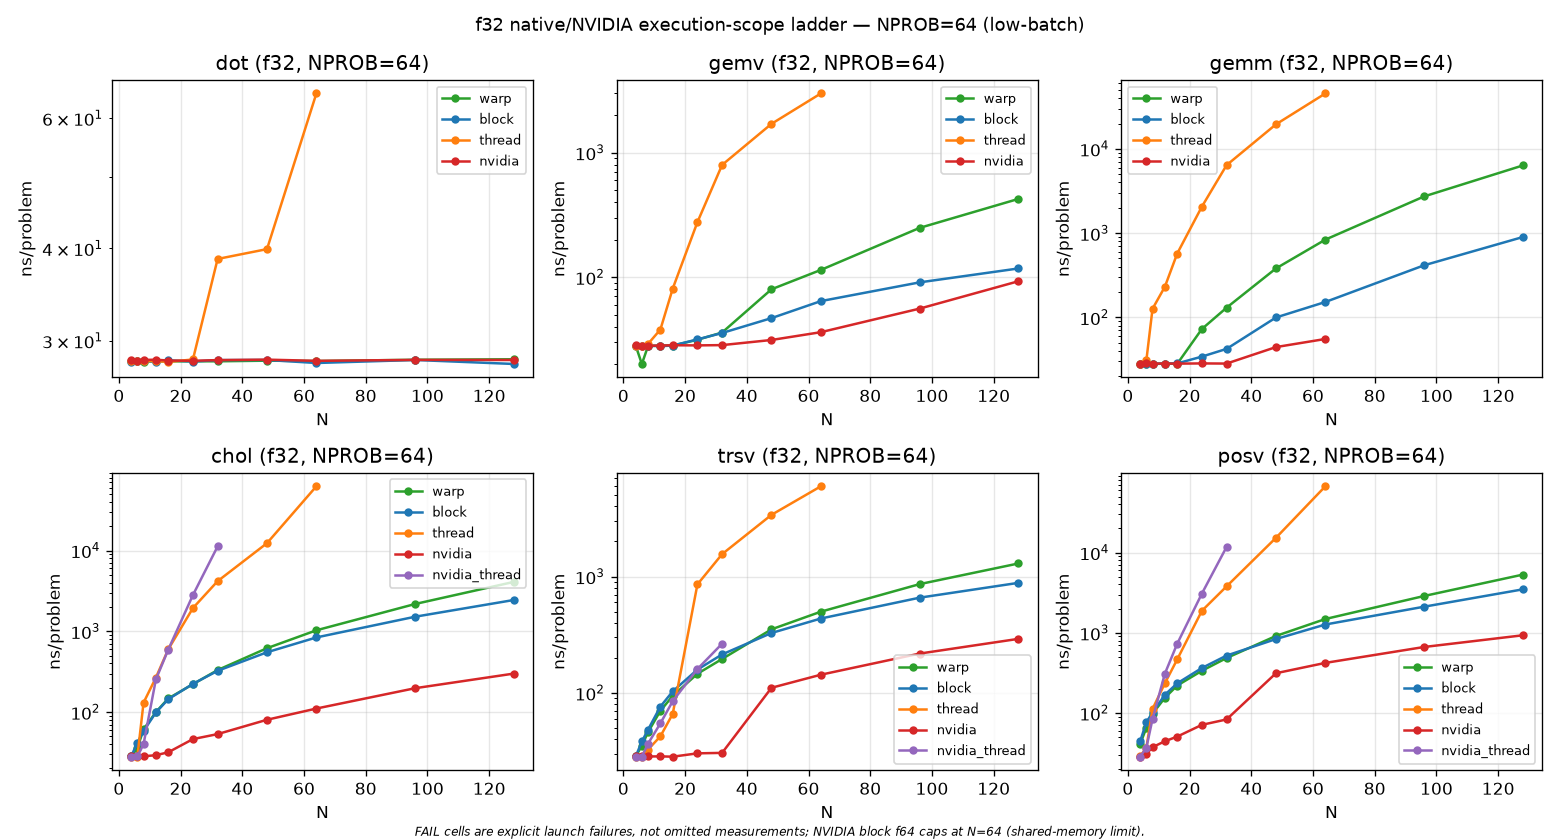
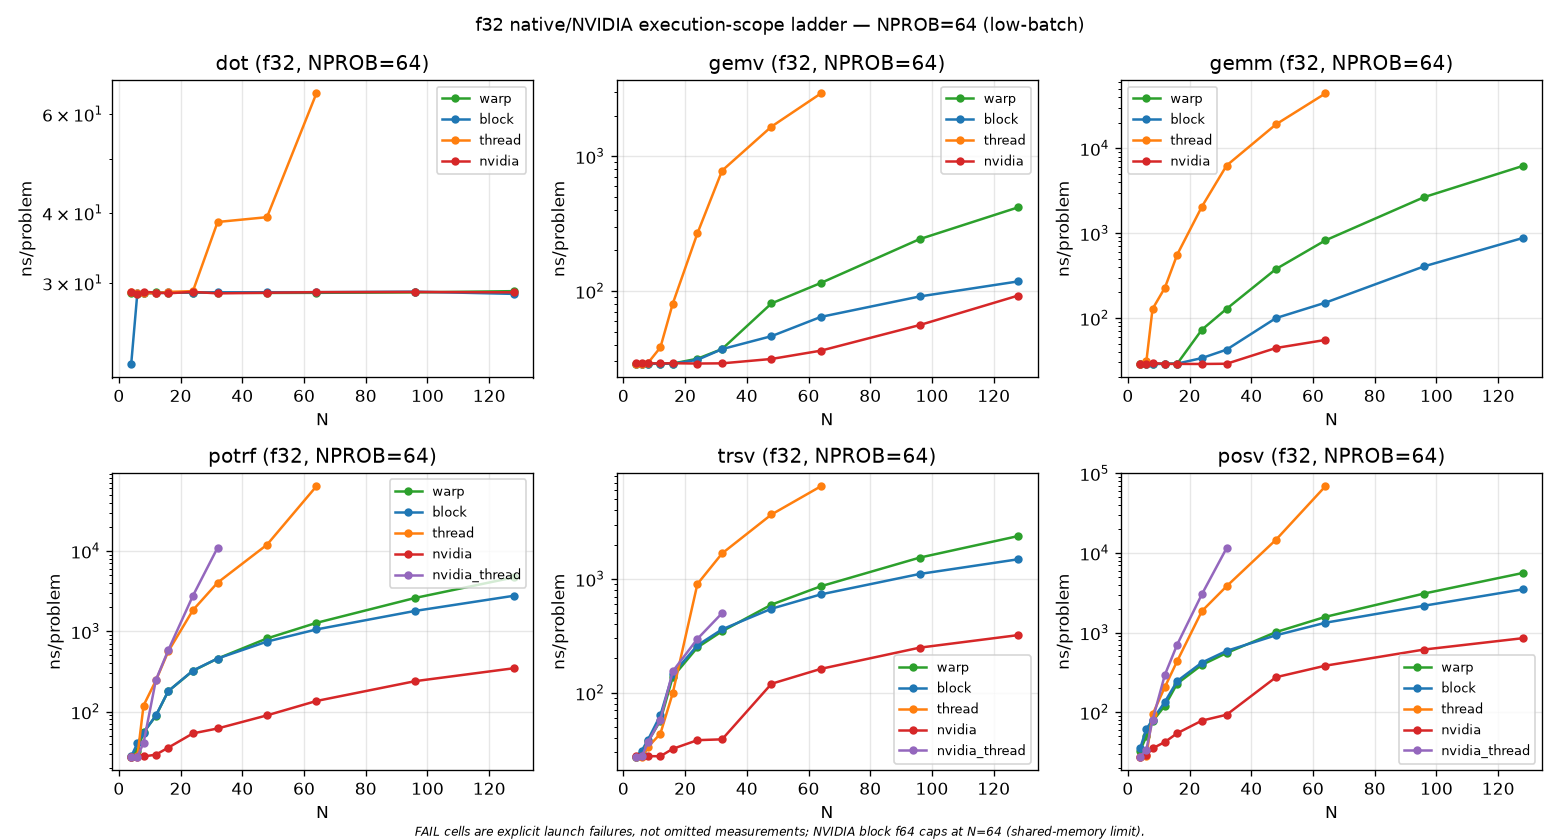
docs: refresh to 2026-09-02 campaign — three measured arches, edge-first landing, Orin ladder figures, current nvidia-thread cells

diff --git a/docs/source/user_guide/tutorials/sweep_results.rst b/docs/source/user_guide/tutorials/sweep_results.rst
@@ -15,11 +15,13 @@ exactly the measurement behind ``glass-defaults.cuh``'s ``recommend<>()``
    source-digest, and signed-receipt protocol and are marked accordingly. Use
    the source capture named beside a claim, and rerun on the target machine.
 
-The figures and table below come from the 2026-08-30 RTX 5090 / sm_120
-five-backend sweep, shown across three batch regimes — **NPROB=64** (low batch,
+The figures and table below come from the 2026-09-02 RTX 5090 / sm_120
+five-backend selection capture — the same paired fresh-input A/B campaign
+that generated the shipped ``ideal_sm120`` / ``ideal_sm87`` / ``ideal_sm72``
+tables (an independent same-protocol second capture confirmed the
+selections) — shown across three batch regimes: **NPROB=64** (low batch,
 latency-leaning), **NPROB=1024** (mid), and **NPROB=8192** (throughput). The
-committed dispatch table uses a separate 500-repetition throughput replication;
-the figures use the full three-regime capture. The winner can shift with batch
+winner can shift with batch
 size, so low-batch plots describe that workload rather than overriding the
 throughput table. These are committed static assets — regenerate them for your
 own hardware with::
@@ -91,11 +93,30 @@ solver defaults all consume the same authoritative measurements.
 The broad high-batch shape is mixed by design: native thread dominates many
 small packed problems, native warp/block remain important as work grows, and
 the NVIDIA block and thread implementations take measured factor/solve bands.
-The ``NPROB=8192`` block shown here is from the full capture; the generated
-sm_120 table uses its higher-repetition replication.
+The ``NPROB=8192`` blocks shown here are from the same capture pair that
+generated the shipped sm_120 table.
 
 .. literalinclude:: /_static/sweep_winners.txt
    :language: text
+
+The same ladder at the edge (Jetson AGX Orin)
+----------------------------------------------
+
+The identical sweep on the Jetson AGX Orin (sm_87, 2026-09-01 selection
+capture, throughput regime) crowns different winners in **145 of 396** cells
+versus the RTX 5090 above, and the older AGX Xavier (sm_72, native-only)
+differs from the Orin in **162 of 396** — placement is a property of the
+silicon, and getting it wrong is expensive: on the Orin's raw ladder the best
+and worst placements for a cell differ by a median of 4.9× (up to 81×). See
+:ref:`tuning-per-arch-results` for the cross-architecture analysis.
+
+.. image:: /_static/mega_sweep_ladder_f32_sm87.png
+   :alt: f32 ladder on Jetson AGX Orin, NPROB=8192 (throughput — feeds recommend)
+   :width: 100%
+
+.. image:: /_static/mega_sweep_ladder_f64_sm87.png
+   :alt: f64 ladder on Jetson AGX Orin, NPROB=8192 (throughput — feeds recommend)
+   :width: 100%
 
 vs. host-batched cuBLAS/cuSOLVER (and TF32)
 -------------------------------------------
@@ -130,6 +151,14 @@ winner between two quiet captures despite low within-run spread. Accordingly,
 small deltas and cross-run winner changes are treated as ties; publication
 claims must survive both independent captures.
 
+The 2026-09 recapture campaign repeated this comparison under the current
+median-of-trials protocol on all three measured architectures and confirmed
+the shape while sharpening the edge story: the host-dispatch overhead that
+GLASS avoids is far more expensive on an embedded GPU, so the same
+comparison that peaks near 16× on the RTX 5090 peaks over 100× on the
+Jetson AGX Orin (small-N ``posv``, where per-call host overhead dominates).
+Raw captures are archived with the paper materials.
+
 Permitting TF32 tensor cores (dashed) does not change the story: cuBLAS
 *declines to engage them* below ``N`` = 24 (results bit-identical to FP32),
 and where they do engage the speed is a wash against FP32 cuBLAS while max
@@ -157,6 +186,16 @@ quadrotor/manipulator scale — 2.5–2.8× at
 chain wins at (36,12) fp32 and (48,16), where the staged operands outgrow what
 one block overlaps profitably. Fusion is a measured choice, not a default:
 GLASS composes both forms from the same primitives.
+
+The harness now also carries a third, *device-side unfused* arm — the same
+GLASS primitives launched one kernel per step with intermediates in global
+memory — which isolates the fusion effect from the device-vs-host effect. On
+the Jetson AGX Orin (2026-09 captures), fusion wins by up to ~1.75× at small
+batches in fp32, while the unfused composition wins by up to ~2.9× at large
+batches and in fp64, where per-primitive kernels regain the occupancy the
+fused kernel's shared-memory footprint caps. Which side of that tradeoff a
+given (size, batch, precision) lands on is exactly the kind of measured
+placement decision the rest of this page is about.
 
 Single-call latency
 -------------------
@@ -214,10 +253,10 @@ NVIDIA thread LAPACK — measured integration
 ---------------------------------------------
 
 The 2026-08-30 wave added cuSOLVERDx's thread interface as a fifth contender
-for ``chol``, ``trsv``, and ``posv``. It is a selective win, not a replacement
+for ``potrf``, ``trsv``, and ``posv``. It is a selective win, not a replacement
 for either GLASS's native thread code or cuSOLVERDx's block interface:
 
-.. list-table:: Throughput cells selected by the generated policy
+.. list-table:: Throughput cells selected by the shipped 2026-09-02 tables
    :header-rows: 1
    :widths: 16 14 30 40
 
@@ -226,36 +265,33 @@ for either GLASS's native thread code or cuSOLVERDx's block interface:
      - float32
      - float64
    * - RTX 5090 / sm_120
-     - 14 / 132
-     - ``chol`` N=6,8; ``trsv`` N=24
-     - ``chol`` N=4,6,8; ``posv`` N=4,6,8; ``trsv`` N=8–32
+     - 12 / 132
+     - ``potrf`` N=6,8
+     - ``potrf`` N=4–8; ``trsv`` N=8–24; ``posv`` N=4–8
    * - Jetson AGX Orin / sm_87
-     - 15 / 132
-     - ``chol`` N=8,12; ``trsv`` N=16,24,32
-     - ``chol`` N=4,6,8; ``trsv`` N=4–32
+     - 18 / 132
+     - ``potrf`` N=4,8,12; ``trsv`` N=8–32
+     - ``potrf`` N=4–8; ``trsv`` N=4–32
 
-The table and replication paragraph below document the archived 2026-08-30
-release method. The next retune replaces its asymmetric confirmation with the
-unified fresh-input solver ladder described above; regenerate these counts and
-ranges from that accepted capture before treating them as current.
+These cells were selected by the unified fresh-input solver ladder described
+above — every native and NVIDIA candidate measured symmetrically on fresh
+valid inputs, with a selected NVIDIA plan additionally interval-confirmed
+(the sm_120 regeneration demoted one ambiguous vendor pick to the capture's
+native winner under that rule). The AGX Xavier (sm_72) ships no
+NVIDIA-thread cells: its CUDA 11.4 toolchain has no device-callable MathDx.
 
-Those ranges enumerate the measured sizes ``4, 6, 8, 12, 16, 24, 32``; they
+The ranges enumerate the measured sizes ``4, 6, 8, 12, 16, 24, 32``; they
 do not imply testing every intervening integer. Against the fastest native
-tier on independent valid inputs, selected NVIDIA-thread cells range from
-about 1.09× to 2.34× on the RTX 5090 and 1.08× to 3.53× on Orin. The largest
-gains are concentrated in ``trsv``; other operations and sizes still select
-another tier.
-
-The 5090 throughput leg was run twice independently at 250 and 500
-repetitions. The raw ladder policy agreed in 131 of 132 cells, agreed on all
-17 pre-veto NVIDIA-thread selections, and disagreed only on ``dot`` f32 N=16 inside the
-native-SIMT tie band. Across the NVIDIA-thread measurements, the second/first
-median time ratio was 0.999 (10th–90th percentile 0.984–1.026). The Orin
-throughput capture used the Tegra profile (50 repetitions, pinned 50 W mode).
-The subsequent valid-input captures on both machines had sub-margin spread at
-every retained or vetoed NVIDIA-thread decision and reduced the shipped bands
-to the 14 and 15 cells above. These checks support the selected bands, not a
-portable speedup claim—rerun both ladder components on a new architecture.
+plan in the same generating captures, the selected NVIDIA-thread cells win
+by about 1.09× to 2.35× on the RTX 5090 and 1.09× to 3.54× on Orin. The
+largest gains are concentrated in ``trsv``; other operations and sizes still
+select another tier. Each table is supported by an independent same-protocol
+second capture (the A/B pair), and the archived 2026-08-30 release
+measurements — a different confirmation method — selected nearly the same
+bands with near-identical win ranges, so the bands are stable across both
+methods and across independent quiet-window sessions. These checks support
+the selected bands, not a portable speedup claim — rerun both ladder
+components on a new architecture.
 
 The native thread tier — historical characterization
 ------------------------------------------------------

diff --git a/docs/source/user_guide/concepts/tuning.rst b/docs/source/user_guide/concepts/tuning.rst
@@ -119,7 +119,9 @@ serial pivot and TB>32 *hurts*.
 interfaces enter the ladder where supported. Which one wins is not monotonic:
 the current sm_120 and sm_87 tables select NVIDIA thread for some small
 ``potrf``/``trsv``/``posv`` cells, NVIDIA block elsewhere, and native tiers in
-the remaining bands. See :doc:`../tutorials/sweep_results` and
+the remaining bands. (The sm_72 Xavier table is native-only by construction —
+its CUDA 11.4 toolchain predates the device-callable MathDx libraries.) See
+:doc:`../tutorials/sweep_results` and
 ``bench/RESULTS.md`` for the dated per-op × per-precision results.
 
 In-place solver timing uses a separate authoritative ladder. The general
@@ -145,7 +147,7 @@ Pass ``dependency_set::mathdx`` explicitly to admit NVIDIA candidates;
 full winner and the measured native-only winner for every cell. The pick is
 host-/codegen-side because
 the tiers need different ``<<<grid, block>>>`` launches. Tables are per-arch
-(``ideal_sm120`` and ``ideal_sm87`` today)
+(``ideal_sm120``, ``ideal_sm87``, and ``ideal_sm72`` today)
 behind an SM dispatch; ``bench/tune.py --sm auto`` adds or refreshes your GPU's table
 (and the tables below) in-tree, leaving other arches' tables untouched.
 
@@ -168,24 +170,28 @@ bit-stability across retunes pin ``glass::block::`` explicitly (see
 
 .. _tuning-per-arch-results:
 
-What a retune actually changes (sm_120 vs sm_87)
-------------------------------------------------
+What a retune actually changes (sm_120 vs sm_87 vs sm_72)
+---------------------------------------------------------
 
-GLASS ships two measured architectures today: ``sm_120`` (RTX 5090, 170 SMs)
-and ``sm_87`` (Jetson AGX Orin, 16 SMs, integrated memory). Comparing the
-2026-08-30 five-backend captures is the clearest answer to "do I need to
-retune?".
+GLASS ships three measured architectures today: ``sm_120`` (RTX 5090, 170
+SMs), ``sm_87`` (Jetson AGX Orin, 16 SMs, integrated memory), and ``sm_72``
+(Jetson AGX Xavier, 8 SMs, native-only — CUDA 11.4 predates the
+device-callable MathDx libraries). Comparing the paired 2026-09-02
+fresh-input A/B captures that generated the shipped tables is the clearest
+answer to "do I need to retune?".
 
-**Yes, per architecture.** In the raw five-backend ladder, of the 396
-(op, N, precision, batch) cells measured on both, **131 (33 %) crown a
-different tier**. The smaller Orin selects native
-thread more often (87 vs 66 cells), NVIDIA thread more often (52 vs 29), and
-block less often (48 vs 82). Under the legacy 2026-08-30 confirmation method,
-the NPROB=8192 regime that generated those archived tables differs in **39 of 132**
-cells. With far fewer SMs to fill, packing more
-problems per warp often beats spreading one problem across more lanes, but the
-movement is not one-directional. No library source differs between the two
-machines; roughly a third of the decisions do.
+**Yes, per architecture.** Of the 396 (op, N, precision, batch) cells
+measured on every machine, the Orin's recommended placements differ from the
+RTX 5090's in **145** and from the Xavier's in **162**. Part of the Xavier
+gap is structural (no MathDx tier available), but restricting all three GPUs
+to their common native thread/warp/block candidates still changes 107
+(RTX–Orin), 94 (RTX–Xavier), and 66 (Orin–Xavier) recommendations. The
+stakes are real: on the Orin's raw candidate ladder at NPROB=8192, the best
+and worst placements for a cell differ by a **median of 4.9× (up to 81×)**,
+and no library source differs between the machines — only the measured
+tables do. With far fewer SMs to fill, the Jetsons pack more problems per
+warp or thread where the RTX spreads one problem across more lanes, but the
+movement is not one-directional.
 
 **Historically, no material retune was needed per power mode.** Before the
 NVIDIA-thread contender was added, the same Orin measured at all three standard

diff --git a/docs/source/index.rst b/docs/source/index.rst
@@ -3,7 +3,7 @@ GLASS: GPU Linear Algebra Simple Subroutines
 
 `GLASS <http://a2r-lab.org/GLASS/>`_ is a header-only CUDA C++ library of
 composable ``__device__`` primitives for small, block-local linear algebra and
-robotics math. It is
+robotics math, architecture-tuned for edge robotics and beyond. It is
 the foundational linear-algebra layer underneath
 `GRiD <https://github.com/A2R-Lab/GRiD>`_,
 `MPCGPU <https://a2r-lab.org/publication/mpcgpu/>`_,
@@ -148,25 +148,34 @@ and :doc:`user_guide/tutorials/examples` for a worked program per concept.
 Measured performance
 --------------------
 
-The measured native and NVIDIA thread / warp / block ladder on an RTX 5090
-(sm_120) — each op's fastest interface across problem size, in ns/problem (the data behind
-``glass::recommend<>``), shown here in the ``NPROB=8192`` throughput
-regime:
+GLASS ships measured placement tables for three architectures — RTX 5090
+(sm_120), Jetson AGX Orin (sm_87), and Jetson AGX Xavier (sm_72,
+native-only) — because placement is worth measuring: on the Orin's raw
+candidate ladder the best and worst placements for a cell differ by a
+median of 4.9× (up to 81×), and the recommended placement changes between
+the Orin and the RTX 5090 in 145 of 396 measured cells (162 of 396 versus
+the Xavier). The stakes are highest on embedded GPUs, where per-call host
+dispatch is most expensive relative to the work — GLASS was tuned edge-first.
 
-.. image:: _static/mega_sweep_ladder_f32.png
-   :alt: GLASS measured backend ladder, float32, RTX 5090 / sm_120
+The measured native and NVIDIA thread / warp / block ladder on the Jetson
+AGX Orin — each op's fastest interface across problem size, in ns/problem
+(the data behind ``glass::recommend<>``), shown in the ``NPROB=8192``
+throughput regime:
+
+.. image:: _static/mega_sweep_ladder_f32_sm87.png
+   :alt: GLASS measured backend ladder, float32, Jetson AGX Orin / sm_87
    :width: 100%
 
-.. image:: _static/mega_sweep_ladder_f64.png
-   :alt: GLASS measured backend ladder, float64, RTX 5090 / sm_120
+.. image:: _static/mega_sweep_ladder_f64_sm87.png
+   :alt: GLASS measured backend ladder, float64, Jetson AGX Orin / sm_87
    :width: 100%
 
-See :doc:`user_guide/tutorials/sweep_results` for the same ladder across the
-``NPROB=64`` / ``1024`` / ``8192`` batch regimes (the winner shifts with batch
-size), a narrowly configured host-batched cuBLAS/cuSOLVER comparison, the fused
-``riccati_gain`` case study, and the per-``(op, N)`` winner table; see
-:doc:`user_guide/concepts/tuning` to regenerate everything for your own GPU
-with ``bench/tune.py``.
+See :doc:`user_guide/tutorials/sweep_results` for the RTX 5090 ladder across
+the ``NPROB=64`` / ``1024`` / ``8192`` batch regimes (the winner shifts with
+batch size), a narrowly configured host-batched cuBLAS/cuSOLVER comparison,
+the fused ``riccati_gain`` case study, and the per-``(op, N)`` winner table;
+see :doc:`user_guide/concepts/tuning` to regenerate everything for your own
+GPU with ``bench/tune.py``.
 
 .. toctree::
    :hidden:

diff --git a/README.md b/README.md
@@ -10,7 +10,8 @@
 [![License: MIT](https://img.shields.io/badge/license-MIT-blue.svg)](LICENSE)
 
 **GLASS is a header-only CUDA C++ library of composable `__device__`
-primitives for small, block-local linear algebra and robotics math.** It includes
+primitives for small, block-local linear algebra and robotics math —
+architecture-tuned for edge robotics and beyond.** It includes
 BLAS operations, factorizations and solvers, structured-system routines, spatial
 algebra, Lie-group operations, projections, and small estimation kernels. GLASS
 is the foundational linear-algebra layer underneath
@@ -84,6 +85,14 @@ the caller still launches and calls the explicit namespace selected by the
 plan. `native_only` is the default dependency set; measured architectures ship
 a paired native-only table from the same capture. Family and scope are measured;
 the packing fields are ready-to-use legal defaults that callers may retune.
+
+Three measured architectures ship in-tree today: **sm_120** (RTX 5090),
+**sm_87** (Jetson AGX Orin), and **sm_72** (Jetson AGX Xavier, native-only).
+Measuring matters: on the Orin the best and worst placements for a cell differ
+by a median of 4.9× (up to 81×), and the recommended placement changes between
+the Orin and the RTX 5090 in 145 of 396 measured cells — the stakes are
+highest on embedded GPUs, where host dispatch is most expensive relative to
+the work. `bench/tune.py --sm auto` adds a measured table for your GPU.
 
 > **Note:** `glass::cgrps::` (header `glass-cgrps.cuh`) is a cooperative-groups
 > *adapter* for the Block interface — the same SIMT loop indexed via a

diff --git a/docs/source/api_reference/defaults.rst b/docs/source/api_reference/defaults.rst
@@ -89,7 +89,8 @@ sm_120 seed. Define it explicitly when targeting another GPU, for example
 ``-DGLASS_TARGET_SM=870``. The historical ``SMS`` macro remains an input alias
 for existing build systems.
 
-The shipped tables currently cover sm_120 and sm_87. Unmeasured architectures
+The shipped tables currently cover sm_120 (RTX 5090), sm_87 (Jetson AGX
+Orin), and sm_72 (Jetson AGX Xavier, native-only). Unmeasured architectures
 use conservative generic choices until ``bench/tune.py`` adds a measured table.
 ``examples/08_backend_picker.cu`` is a complete native-only launcher.
 
